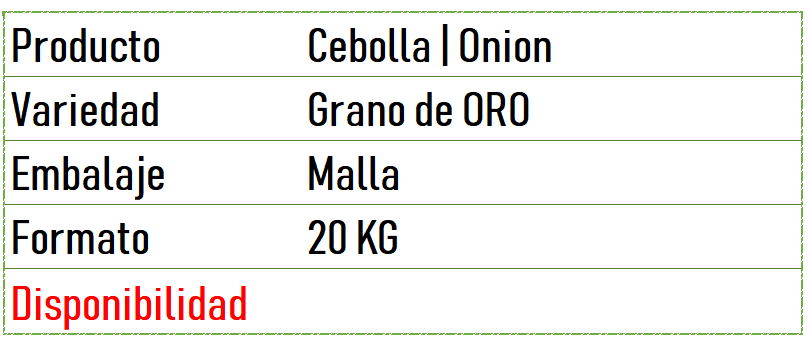
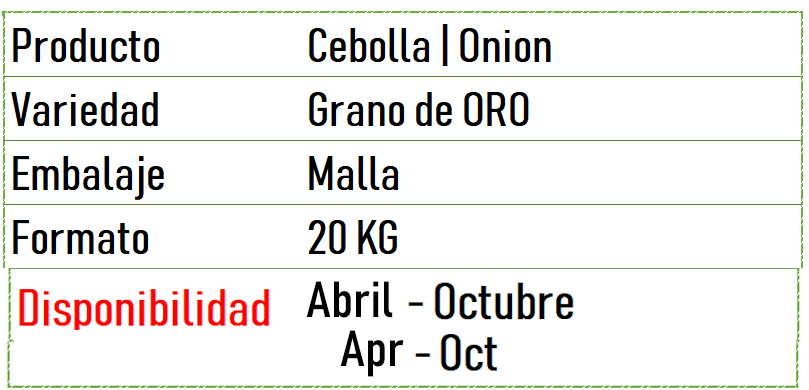
v0.97

diff --git a/index.html b/index.html
@@ -259,6 +259,20 @@
 							<div class="col-md-6 all budget-meal">
 								<div class="single-menu">
 									<div class="title-wrap d-flex justify-content-between">
+										<h4>Manzana </h4>
+										<a href="menu.html#otros"><h5 class="price">Ver más</h5></a>
+									</div>	
+									<h5>Variedad: Royal Gala  &nbsp; <img class="img-fluid" src="img/icono/apple.png" width="30" height="25"></h5>	
+									<p ALIGN="justify"><br>
+										La manzana es un fruto producido por el manzano, un árbol perteneciente a la familia Rosaceae. Este fruto proviene 
+										de una flor que posee un ovario compuesto ínfero, a diferencia de la mayoría de las rosáceas que tiene ovarios súperos.
+									</p>									
+								</div>
+							</div>
+
+							<div class="col-md-6 all budget-meal">
+								<div class="single-menu">
+									<div class="title-wrap d-flex justify-content-between">
 										<h4>Palta </h4>
 										<a href="menu.html#otros"><h5 class="price">Ver más</h5></a>
 									</div>	

diff --git a/menu.html b/menu.html
@@ -145,7 +145,7 @@
 													<li class="menu-has-children"><a href="">Disponibilidad y detalles de envío</a>
 														<ul>
 														  
-														  pronto<br>	
+															<img class="img-fluid" src="img/productos/dispmanda.png" width="250" height="120"><br><br>	
 														  <li><a href="contact.html#Anchor2">Consultar sobre disponibilidad de este producto</a></li>
 														</ul>
 													</li>
@@ -252,7 +252,7 @@
 											ligeramente áspera a causa de las hundidas glándulas de aceite, medianamente gruesa, 
 											y no fácilmente separable de la pulpa; pulpa de color amarillo verdoso, con unos 10 
 											sectores, de grano fino, tierna, jugosa, muy ácida, posee un alto contenido en 
-											<b>Vitamina C</b> y <b>ácido cítrico</b>.
+											Vitamina C y ácido cítrico.
 										</p><br>
 										<div class="meta-bottom d-flex justify-content-between" >
 											<p align="right"><ul class="nav-menu">
